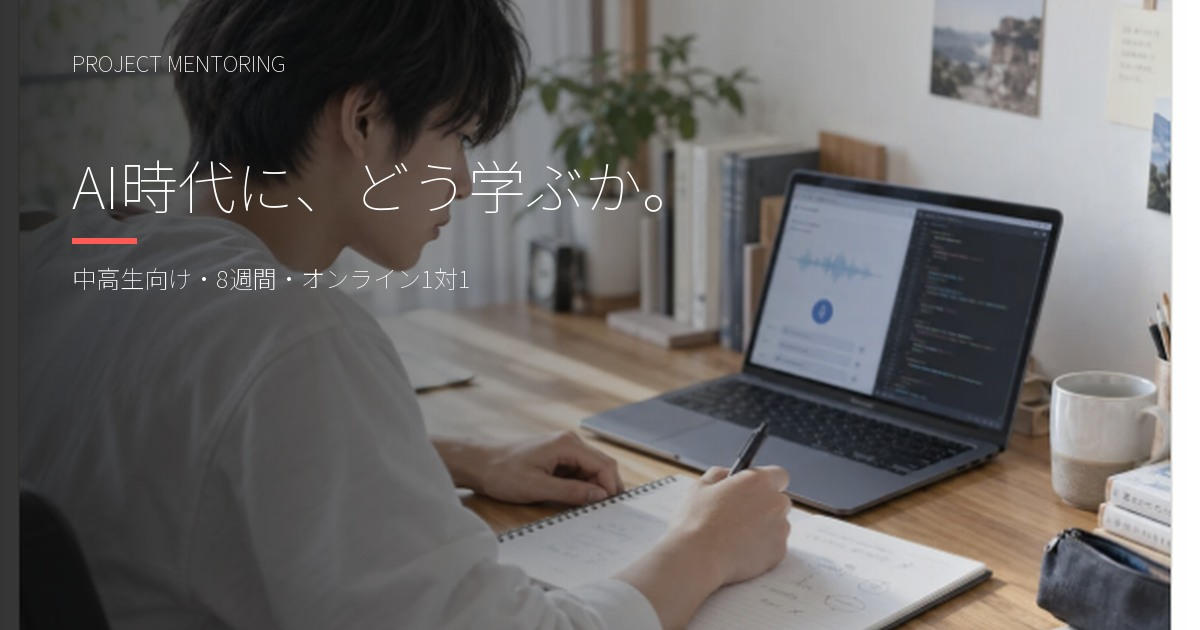
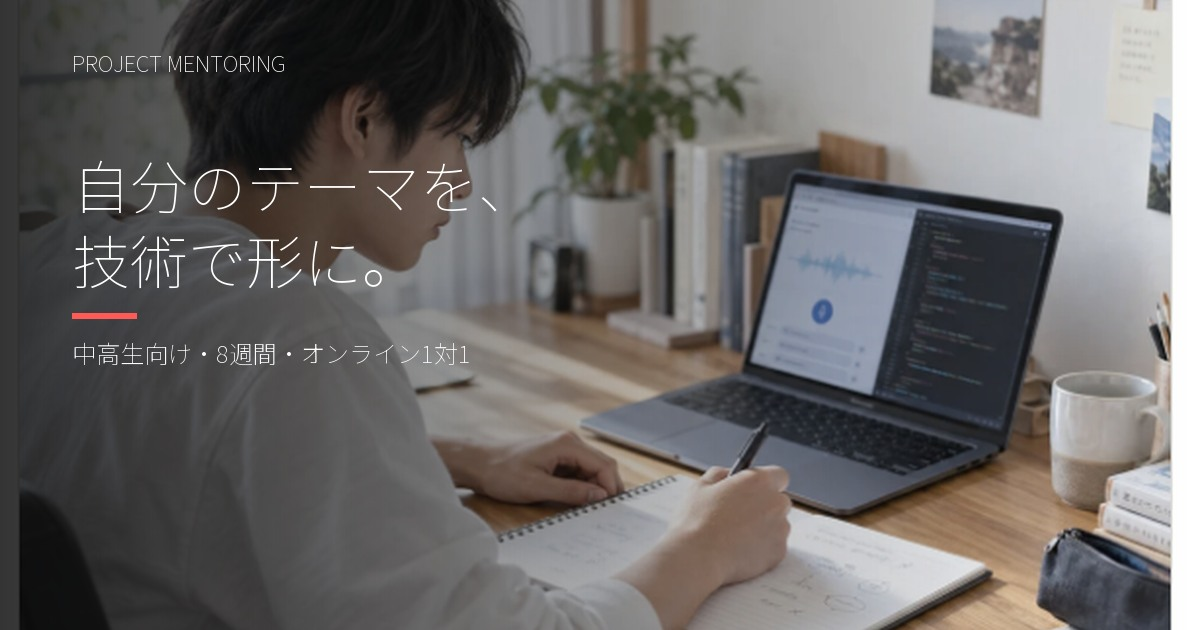
Refresh OG artwork and social image metadata for review

diff --git a/remote-preview/consultation.html b/remote-preview/consultation.html
@@ -4,8 +4,8 @@
   <meta charset="utf-8"><meta name="viewport" content="width=device-width, initial-scale=1">
   <meta name="description" content="お子さまの興味を8週間でどんな技術プロジェクトにできそうか、20分・オンラインで整理します。海外大学や総合型選抜を考える方も、技術への興味から始めたい方も。保護者向け無料相談。">
   <meta name="robots" content="noindex,nofollow">
-  <meta property="og:type" content="website"><meta property="og:site_name" content="PROJECT MENTORING"><meta property="og:locale" content="ja_JP"><meta property="og:url" content="https://review-lp-positioning-202609.project-mentoring.pages.dev/consultation"><meta property="og:title" content="中高生向けAI・プログラミング個別指導｜無料相談"><meta property="og:description" content="お子さまの興味を8週間でどんな技術プロジェクトにできそうか、20分・オンラインで整理します。海外大学や総合型選抜を考える方も、技術への興味から始めたい方も。保護者向け無料相談。"><meta property="og:image" content="/assets/og-project-mentoring.jpg"><meta property="og:image:width" content="1200"><meta property="og:image:height" content="630"><meta property="og:image:alt" content="PROJECT MENTORING — AI時代に、どう学ぶか。">
-  <meta name="twitter:card" content="summary_large_image"><meta name="twitter:title" content="中高生向けAI・プログラミング個別指導｜無料相談"><meta name="twitter:description" content="お子さまの興味を8週間でどんな技術プロジェクトにできそうか、20分・オンラインで整理します。海外大学や総合型選抜を考える方も、技術への興味から始めたい方も。保護者向け無料相談。"><meta name="twitter:image" content="/assets/og-project-mentoring.jpg">
+  <meta property="og:type" content="website"><meta property="og:site_name" content="PROJECT MENTORING"><meta property="og:locale" content="ja_JP"><meta property="og:url" content="https://review-lp-positioning-202609.project-mentoring.pages.dev/consultation"><meta property="og:title" content="中高生向けAI・プログラミング個別指導｜無料相談"><meta property="og:description" content="お子さまの興味を8週間でどんな技術プロジェクトにできそうか、20分・オンラインで整理します。海外大学や総合型選抜を考える方も、技術への興味から始めたい方も。保護者向け無料相談。"><meta property="og:image" content="https://review-lp-positioning-202609.project-mentoring.pages.dev/assets/og-project-mentoring.jpg"><meta property="og:image:width" content="1200"><meta property="og:image:height" content="630"><meta property="og:image:alt" content="PROJECT MENTORING — 自分のテーマを、技術で形に。中高生向け・8週間・オンライン1対1">
+  <meta name="twitter:card" content="summary_large_image"><meta name="twitter:title" content="中高生向けAI・プログラミング個別指導｜無料相談"><meta name="twitter:description" content="お子さまの興味を8週間でどんな技術プロジェクトにできそうか、20分・オンラインで整理します。海外大学や総合型選抜を考える方も、技術への興味から始めたい方も。保護者向け無料相談。"><meta name="twitter:image" content="https://review-lp-positioning-202609.project-mentoring.pages.dev/assets/og-project-mentoring.jpg">
   <meta name="theme-color" content="#ff5a55"><meta name="referrer" content="strict-origin-when-cross-origin">
   <title>中高生向けAI・プログラミング個別指導｜無料相談</title>
   <link rel="icon" type="image/svg+xml" href="/assets/favicon.svg"><link rel="stylesheet" href="/site.css?v=20260925-positioning2"><link rel="stylesheet" href="/consent.css?v=20260921-booking">

diff --git a/remote-preview/faq.html b/remote-preview/faq.html
@@ -4,8 +4,8 @@
   <meta charset="utf-8"><meta name="viewport" content="width=device-width, initial-scale=1">
   <meta name="description" content="中高生向けAI・プログラミング個別指導のFAQ。未経験、普通のプログラミング教室との違い、探究学習、全国オンライン、8週間・60分×8回・200,000円の内容を説明します。">
   <meta name="robots" content="noindex,nofollow">
-  <meta property="og:type" content="website"><meta property="og:site_name" content="PROJECT MENTORING"><meta property="og:locale" content="ja_JP"><meta property="og:url" content="https://review-lp-positioning-202609.project-mentoring.pages.dev/faq"><meta property="og:title" content="中高生向けAI・プログラミング個別指導のFAQ｜PROJECT MENTORING"><meta property="og:description" content="未経験、AI操作講座との違い、探究学習、全国オンライン、8週間の進め方と料金など受講前の疑問にお答えします。"><meta property="og:image" content="/assets/og-project-mentoring.jpg"><meta property="og:image:width" content="1200"><meta property="og:image:height" content="630"><meta property="og:image:alt" content="PROJECT MENTORING — AI時代に、どう学ぶか。">
-  <meta name="twitter:card" content="summary_large_image"><meta name="twitter:title" content="中高生向けAI・プログラミング個別指導のFAQ｜PROJECT MENTORING"><meta name="twitter:description" content="未経験、全国オンライン、8週間の進め方と料金など受講前の疑問にお答えします。"><meta name="twitter:image" content="/assets/og-project-mentoring.jpg">
+  <meta property="og:type" content="website"><meta property="og:site_name" content="PROJECT MENTORING"><meta property="og:locale" content="ja_JP"><meta property="og:url" content="https://review-lp-positioning-202609.project-mentoring.pages.dev/faq"><meta property="og:title" content="中高生向けAI・プログラミング個別指導のFAQ｜PROJECT MENTORING"><meta property="og:description" content="未経験、AI操作講座との違い、探究学習、全国オンライン、8週間の進め方と料金など受講前の疑問にお答えします。"><meta property="og:image" content="https://review-lp-positioning-202609.project-mentoring.pages.dev/assets/og-project-mentoring.jpg"><meta property="og:image:width" content="1200"><meta property="og:image:height" content="630"><meta property="og:image:alt" content="PROJECT MENTORING — 自分のテーマを、技術で形に。中高生向け・8週間・オンライン1対1">
+  <meta name="twitter:card" content="summary_large_image"><meta name="twitter:title" content="中高生向けAI・プログラミング個別指導のFAQ｜PROJECT MENTORING"><meta name="twitter:description" content="未経験、全国オンライン、8週間の進め方と料金など受講前の疑問にお答えします。"><meta name="twitter:image" content="https://review-lp-positioning-202609.project-mentoring.pages.dev/assets/og-project-mentoring.jpg">
   <meta name="theme-color" content="#ff5a55"><meta name="referrer" content="strict-origin-when-cross-origin">
   <title>中高生向けAI・プログラミング個別指導のFAQ｜PROJECT MENTORING</title>
   <link rel="icon" type="image/svg+xml" href="/assets/favicon.svg"><link rel="stylesheet" href="/site.css?v=20260921-mobile"><link rel="stylesheet" href="/consent.css?v=20260921-booking">

diff --git a/remote-preview/projects.html b/remote-preview/projects.html
@@ -4,8 +4,8 @@
   <meta charset="utf-8"><meta name="viewport" content="width=device-width, initial-scale=1">
   <meta name="description" content="中高生のAIプロジェクト・プログラミング制作・探究学習のテーマ例。何を試し、どう評価し、結果から次の一手を決めるかを8つの例で紹介します。">
   <meta name="robots" content="noindex,nofollow">
-  <meta property="og:type" content="website"><meta property="og:site_name" content="PROJECT MENTORING"><meta property="og:locale" content="ja_JP"><meta property="og:url" content="https://review-lp-positioning-202609.project-mentoring.pages.dev/projects"><meta property="og:title" content="中高生向けAIプロジェクト・探究学習の例｜PROJECT MENTORING"><meta property="og:description" content="AIやプログラミングを使い、試す・評価する・次を判断する過程が見える8つのテーマ例。"><meta property="og:image" content="/assets/og-project-mentoring.jpg"><meta property="og:image:width" content="1200"><meta property="og:image:height" content="630"><meta property="og:image:alt" content="PROJECT MENTORING — AI時代に、どう学ぶか。">
-  <meta name="twitter:card" content="summary_large_image"><meta name="twitter:title" content="中高生向けAIプロジェクト・探究学習の例｜PROJECT MENTORING"><meta name="twitter:description" content="AIやプログラミングを使い、試す・評価する・次を判断する過程が見える8つのテーマ例。"><meta name="twitter:image" content="/assets/og-project-mentoring.jpg">
+  <meta property="og:type" content="website"><meta property="og:site_name" content="PROJECT MENTORING"><meta property="og:locale" content="ja_JP"><meta property="og:url" content="https://review-lp-positioning-202609.project-mentoring.pages.dev/projects"><meta property="og:title" content="中高生向けAIプロジェクト・探究学習の例｜PROJECT MENTORING"><meta property="og:description" content="AIやプログラミングを使い、試す・評価する・次を判断する過程が見える8つのテーマ例。"><meta property="og:image" content="https://review-lp-positioning-202609.project-mentoring.pages.dev/assets/og-project-mentoring.jpg"><meta property="og:image:width" content="1200"><meta property="og:image:height" content="630"><meta property="og:image:alt" content="PROJECT MENTORING — 自分のテーマを、技術で形に。中高生向け・8週間・オンライン1対1">
+  <meta name="twitter:card" content="summary_large_image"><meta name="twitter:title" content="中高生向けAIプロジェクト・探究学習の例｜PROJECT MENTORING"><meta name="twitter:description" content="AIやプログラミングを使い、試す・評価する・次を判断する過程が見える8つのテーマ例。"><meta name="twitter:image" content="https://review-lp-positioning-202609.project-mentoring.pages.dev/assets/og-project-mentoring.jpg">
   <meta name="theme-color" content="#ff5a55"><meta name="referrer" content="strict-origin-when-cross-origin">
   <title>中高生向けAIプロジェクト・探究学習の例｜PROJECT MENTORING</title>
   <link rel="icon" type="image/svg+xml" href="/assets/favicon.svg"><link rel="stylesheet" href="/site.css?v=20260921-mobile"><link rel="stylesheet" href="/consent.css?v=20260921-booking">

diff --git a/site-preview/consultation.html b/site-preview/consultation.html
@@ -4,7 +4,7 @@
   <meta charset="utf-8"><meta name="viewport" content="width=device-width, initial-scale=1">
   <meta name="description" content="お子さまの興味を8週間でどんな技術プロジェクトにできそうか、20分・オンラインで整理します。海外大学や総合型選抜を考える方も、技術への興味から始めたい方も。保護者向け無料相談。">
   <meta name="robots" content="noindex,nofollow"><link rel="canonical" href="https://project-mentoring.com/consultation">
-  <meta property="og:type" content="website"><meta property="og:site_name" content="PROJECT MENTORING"><meta property="og:locale" content="ja_JP"><meta property="og:url" content="https://project-mentoring.com/consultation"><meta property="og:title" content="中高生向けAI・プログラミング個別指導｜無料相談"><meta property="og:description" content="お子さまの興味を8週間でどんな技術プロジェクトにできそうか、20分・オンラインで整理します。海外大学や総合型選抜を考える方も、技術への興味から始めたい方も。保護者向け無料相談。"><meta property="og:image" content="https://project-mentoring.com/assets/og-project-mentoring.jpg"><meta property="og:image:width" content="1200"><meta property="og:image:height" content="630"><meta property="og:image:alt" content="PROJECT MENTORING — AI時代に、どう学ぶか。">
+  <meta property="og:type" content="website"><meta property="og:site_name" content="PROJECT MENTORING"><meta property="og:locale" content="ja_JP"><meta property="og:url" content="https://project-mentoring.com/consultation"><meta property="og:title" content="中高生向けAI・プログラミング個別指導｜無料相談"><meta property="og:description" content="お子さまの興味を8週間でどんな技術プロジェクトにできそうか、20分・オンラインで整理します。海外大学や総合型選抜を考える方も、技術への興味から始めたい方も。保護者向け無料相談。"><meta property="og:image" content="https://project-mentoring.com/assets/og-project-mentoring.jpg"><meta property="og:image:width" content="1200"><meta property="og:image:height" content="630"><meta property="og:image:alt" content="PROJECT MENTORING — 自分のテーマを、技術で形に。中高生向け・8週間・オンライン1対1">
   <meta name="twitter:card" content="summary_large_image"><meta name="twitter:title" content="中高生向けAI・プログラミング個別指導｜無料相談"><meta name="twitter:description" content="お子さまの興味を8週間でどんな技術プロジェクトにできそうか、20分・オンラインで整理します。海外大学や総合型選抜を考える方も、技術への興味から始めたい方も。保護者向け無料相談。"><meta name="twitter:image" content="https://project-mentoring.com/assets/og-project-mentoring.jpg">
   <meta name="theme-color" content="#ff5a55"><meta name="referrer" content="strict-origin-when-cross-origin">
   <title>中高生向けAI・プログラミング個別指導｜無料相談</title>

diff --git a/site-preview/faq.html b/site-preview/faq.html
@@ -4,7 +4,7 @@
   <meta charset="utf-8"><meta name="viewport" content="width=device-width, initial-scale=1">
   <meta name="description" content="中高生向けAI・プログラミング個別指導のFAQ。未経験、普通のプログラミング教室との違い、探究学習、全国オンライン、8週間・60分×8回・200,000円の内容を説明します。">
   <meta name="robots" content="noindex,nofollow"><link rel="canonical" href="https://project-mentoring.com/faq">
-  <meta property="og:type" content="website"><meta property="og:site_name" content="PROJECT MENTORING"><meta property="og:locale" content="ja_JP"><meta property="og:url" content="https://project-mentoring.com/faq"><meta property="og:title" content="中高生向けAI・プログラミング個別指導のFAQ｜PROJECT MENTORING"><meta property="og:description" content="未経験、AI操作講座との違い、探究学習、全国オンライン、8週間の進め方と料金など受講前の疑問にお答えします。"><meta property="og:image" content="https://project-mentoring.com/assets/og-project-mentoring.jpg"><meta property="og:image:width" content="1200"><meta property="og:image:height" content="630"><meta property="og:image:alt" content="PROJECT MENTORING — AI時代に、どう学ぶか。">
+  <meta property="og:type" content="website"><meta property="og:site_name" content="PROJECT MENTORING"><meta property="og:locale" content="ja_JP"><meta property="og:url" content="https://project-mentoring.com/faq"><meta property="og:title" content="中高生向けAI・プログラミング個別指導のFAQ｜PROJECT MENTORING"><meta property="og:description" content="未経験、AI操作講座との違い、探究学習、全国オンライン、8週間の進め方と料金など受講前の疑問にお答えします。"><meta property="og:image" content="https://project-mentoring.com/assets/og-project-mentoring.jpg"><meta property="og:image:width" content="1200"><meta property="og:image:height" content="630"><meta property="og:image:alt" content="PROJECT MENTORING — 自分のテーマを、技術で形に。中高生向け・8週間・オンライン1対1">
   <meta name="twitter:card" content="summary_large_image"><meta name="twitter:title" content="中高生向けAI・プログラミング個別指導のFAQ｜PROJECT MENTORING"><meta name="twitter:description" content="未経験、全国オンライン、8週間の進め方と料金など受講前の疑問にお答えします。"><meta name="twitter:image" content="https://project-mentoring.com/assets/og-project-mentoring.jpg">
   <meta name="theme-color" content="#ff5a55"><meta name="referrer" content="strict-origin-when-cross-origin">
   <title>中高生向けAI・プログラミング個別指導のFAQ｜PROJECT MENTORING</title>

diff --git a/site-preview/projects.html b/site-preview/projects.html
@@ -4,7 +4,7 @@
   <meta charset="utf-8"><meta name="viewport" content="width=device-width, initial-scale=1">
   <meta name="description" content="中高生のAIプロジェクト・プログラミング制作・探究学習のテーマ例。何を試し、どう評価し、結果から次の一手を決めるかを8つの例で紹介します。">
   <meta name="robots" content="noindex,nofollow"><link rel="canonical" href="https://project-mentoring.com/projects">
-  <meta property="og:type" content="website"><meta property="og:site_name" content="PROJECT MENTORING"><meta property="og:locale" content="ja_JP"><meta property="og:url" content="https://project-mentoring.com/projects"><meta property="og:title" content="中高生向けAIプロジェクト・探究学習の例｜PROJECT MENTORING"><meta property="og:description" content="AIやプログラミングを使い、試す・評価する・次を判断する過程が見える8つのテーマ例。"><meta property="og:image" content="https://project-mentoring.com/assets/og-project-mentoring.jpg"><meta property="og:image:width" content="1200"><meta property="og:image:height" content="630"><meta property="og:image:alt" content="PROJECT MENTORING — AI時代に、どう学ぶか。">
+  <meta property="og:type" content="website"><meta property="og:site_name" content="PROJECT MENTORING"><meta property="og:locale" content="ja_JP"><meta property="og:url" content="https://project-mentoring.com/projects"><meta property="og:title" content="中高生向けAIプロジェクト・探究学習の例｜PROJECT MENTORING"><meta property="og:description" content="AIやプログラミングを使い、試す・評価する・次を判断する過程が見える8つのテーマ例。"><meta property="og:image" content="https://project-mentoring.com/assets/og-project-mentoring.jpg"><meta property="og:image:width" content="1200"><meta property="og:image:height" content="630"><meta property="og:image:alt" content="PROJECT MENTORING — 自分のテーマを、技術で形に。中高生向け・8週間・オンライン1対1">
   <meta name="twitter:card" content="summary_large_image"><meta name="twitter:title" content="中高生向けAIプロジェクト・探究学習の例｜PROJECT MENTORING"><meta name="twitter:description" content="AIやプログラミングを使い、試す・評価する・次を判断する過程が見える8つのテーマ例。"><meta name="twitter:image" content="https://project-mentoring.com/assets/og-project-mentoring.jpg">
   <meta name="theme-color" content="#ff5a55"><meta name="referrer" content="strict-origin-when-cross-origin">
   <title>中高生向けAIプロジェクト・探究学習の例｜PROJECT MENTORING</title>

diff --git a/remote-preview/index.html b/remote-preview/index.html
@@ -12,12 +12,12 @@
   <meta property="og:url" content="https://review-lp-positioning-202609.project-mentoring.pages.dev/">
   <meta property="og:title" content="中高生向けAI・プログラミング個別指導｜PROJECT MENTORING">
   <meta property="og:description" content="海外大学や総合型選抜も視野に、自分のテーマを技術で形にしたい中高生へ。AI・ソフトウェア・データ分析の制作・実験・評価に伴走する、8週間・オンライン1対1のプロジェクト指導。進路が未定の方も相談できます。">
-  <meta property="og:image" content="/assets/og-project-mentoring.jpg">
-  <meta property="og:image:width" content="1200"><meta property="og:image:height" content="630"><meta property="og:image:alt" content="PROJECT MENTORING — AI時代に、どう学ぶか。">
+  <meta property="og:image" content="https://review-lp-positioning-202609.project-mentoring.pages.dev/assets/og-project-mentoring.jpg">
+  <meta property="og:image:width" content="1200"><meta property="og:image:height" content="630"><meta property="og:image:alt" content="PROJECT MENTORING — 自分のテーマを、技術で形に。中高生向け・8週間・オンライン1対1">
   <meta name="twitter:card" content="summary_large_image">
   <meta name="twitter:title" content="中高生向けAI・プログラミング個別指導｜PROJECT MENTORING">
   <meta name="twitter:description" content="海外大学や総合型選抜も視野に、自分のテーマを技術で形にしたい中高生へ。AI・ソフトウェア・データ分析の制作・実験・評価に伴走する、8週間・オンライン1対1のプロジェクト指導。進路が未定の方も相談できます。">
-  <meta name="twitter:image" content="/assets/og-project-mentoring.jpg">
+  <meta name="twitter:image" content="https://review-lp-positioning-202609.project-mentoring.pages.dev/assets/og-project-mentoring.jpg">
   <meta name="theme-color" content="#ff5a55">
   <meta name="referrer" content="strict-origin-when-cross-origin">
   <title>中高生向けAI・プログラミング個別指導｜PROJECT MENTORING</title>

diff --git a/site-preview/index.html b/site-preview/index.html
@@ -13,7 +13,7 @@
   <meta property="og:title" content="中高生向けAI・プログラミング個別指導｜PROJECT MENTORING">
   <meta property="og:description" content="海外大学や総合型選抜も視野に、自分のテーマを技術で形にしたい中高生へ。AI・ソフトウェア・データ分析の制作・実験・評価に伴走する、8週間・オンライン1対1のプロジェクト指導。進路が未定の方も相談できます。">
   <meta property="og:image" content="https://project-mentoring.com/assets/og-project-mentoring.jpg">
-  <meta property="og:image:width" content="1200"><meta property="og:image:height" content="630"><meta property="og:image:alt" content="PROJECT MENTORING — AI時代に、どう学ぶか。">
+  <meta property="og:image:width" content="1200"><meta property="og:image:height" content="630"><meta property="og:image:alt" content="PROJECT MENTORING — 自分のテーマを、技術で形に。中高生向け・8週間・オンライン1対1">
   <meta name="twitter:card" content="summary_large_image">
   <meta name="twitter:title" content="中高生向けAI・プログラミング個別指導｜PROJECT MENTORING">
   <meta name="twitter:description" content="海外大学や総合型選抜も視野に、自分のテーマを技術で形にしたい中高生へ。AI・ソフトウェア・データ分析の制作・実験・評価に伴走する、8週間・オンライン1対1のプロジェクト指導。進路が未定の方も相談できます。">

diff --git a/build-remote-preview.py b/build-remote-preview.py
@@ -22,6 +22,9 @@ for name in ['index.html', 'consultation.html', 'projects.html', 'faq.html', '40
     html = re.sub(r'<link rel="canonical" href="[^"]+">', '', html)
     html = html.replace('https://project-mentoring.com/assets/', '/assets/')
     html = html.replace('https://project-mentoring.com/', ALIAS)
+    # Social image metadata must use an absolute URL on the review origin.
+    html = html.replace('property="og:image" content="/assets/', 'property="og:image" content="' + ALIAS + 'assets/')
+    html = html.replace('name="twitter:image" content="/assets/', 'name="twitter:image" content="' + ALIAS + 'assets/')
     html = html.replace('href="https://calendar.app.google/zDMqNh2eyVPjtzSW6"', 'href="#review-environment"')
     html = html.replace('Google予約ページで日時を選ぶ', 'レビュー版では予約に進みません')
     html = html.replace('target="_blank" rel="noopener noreferrer" data-booking-position', 'data-booking-position')
